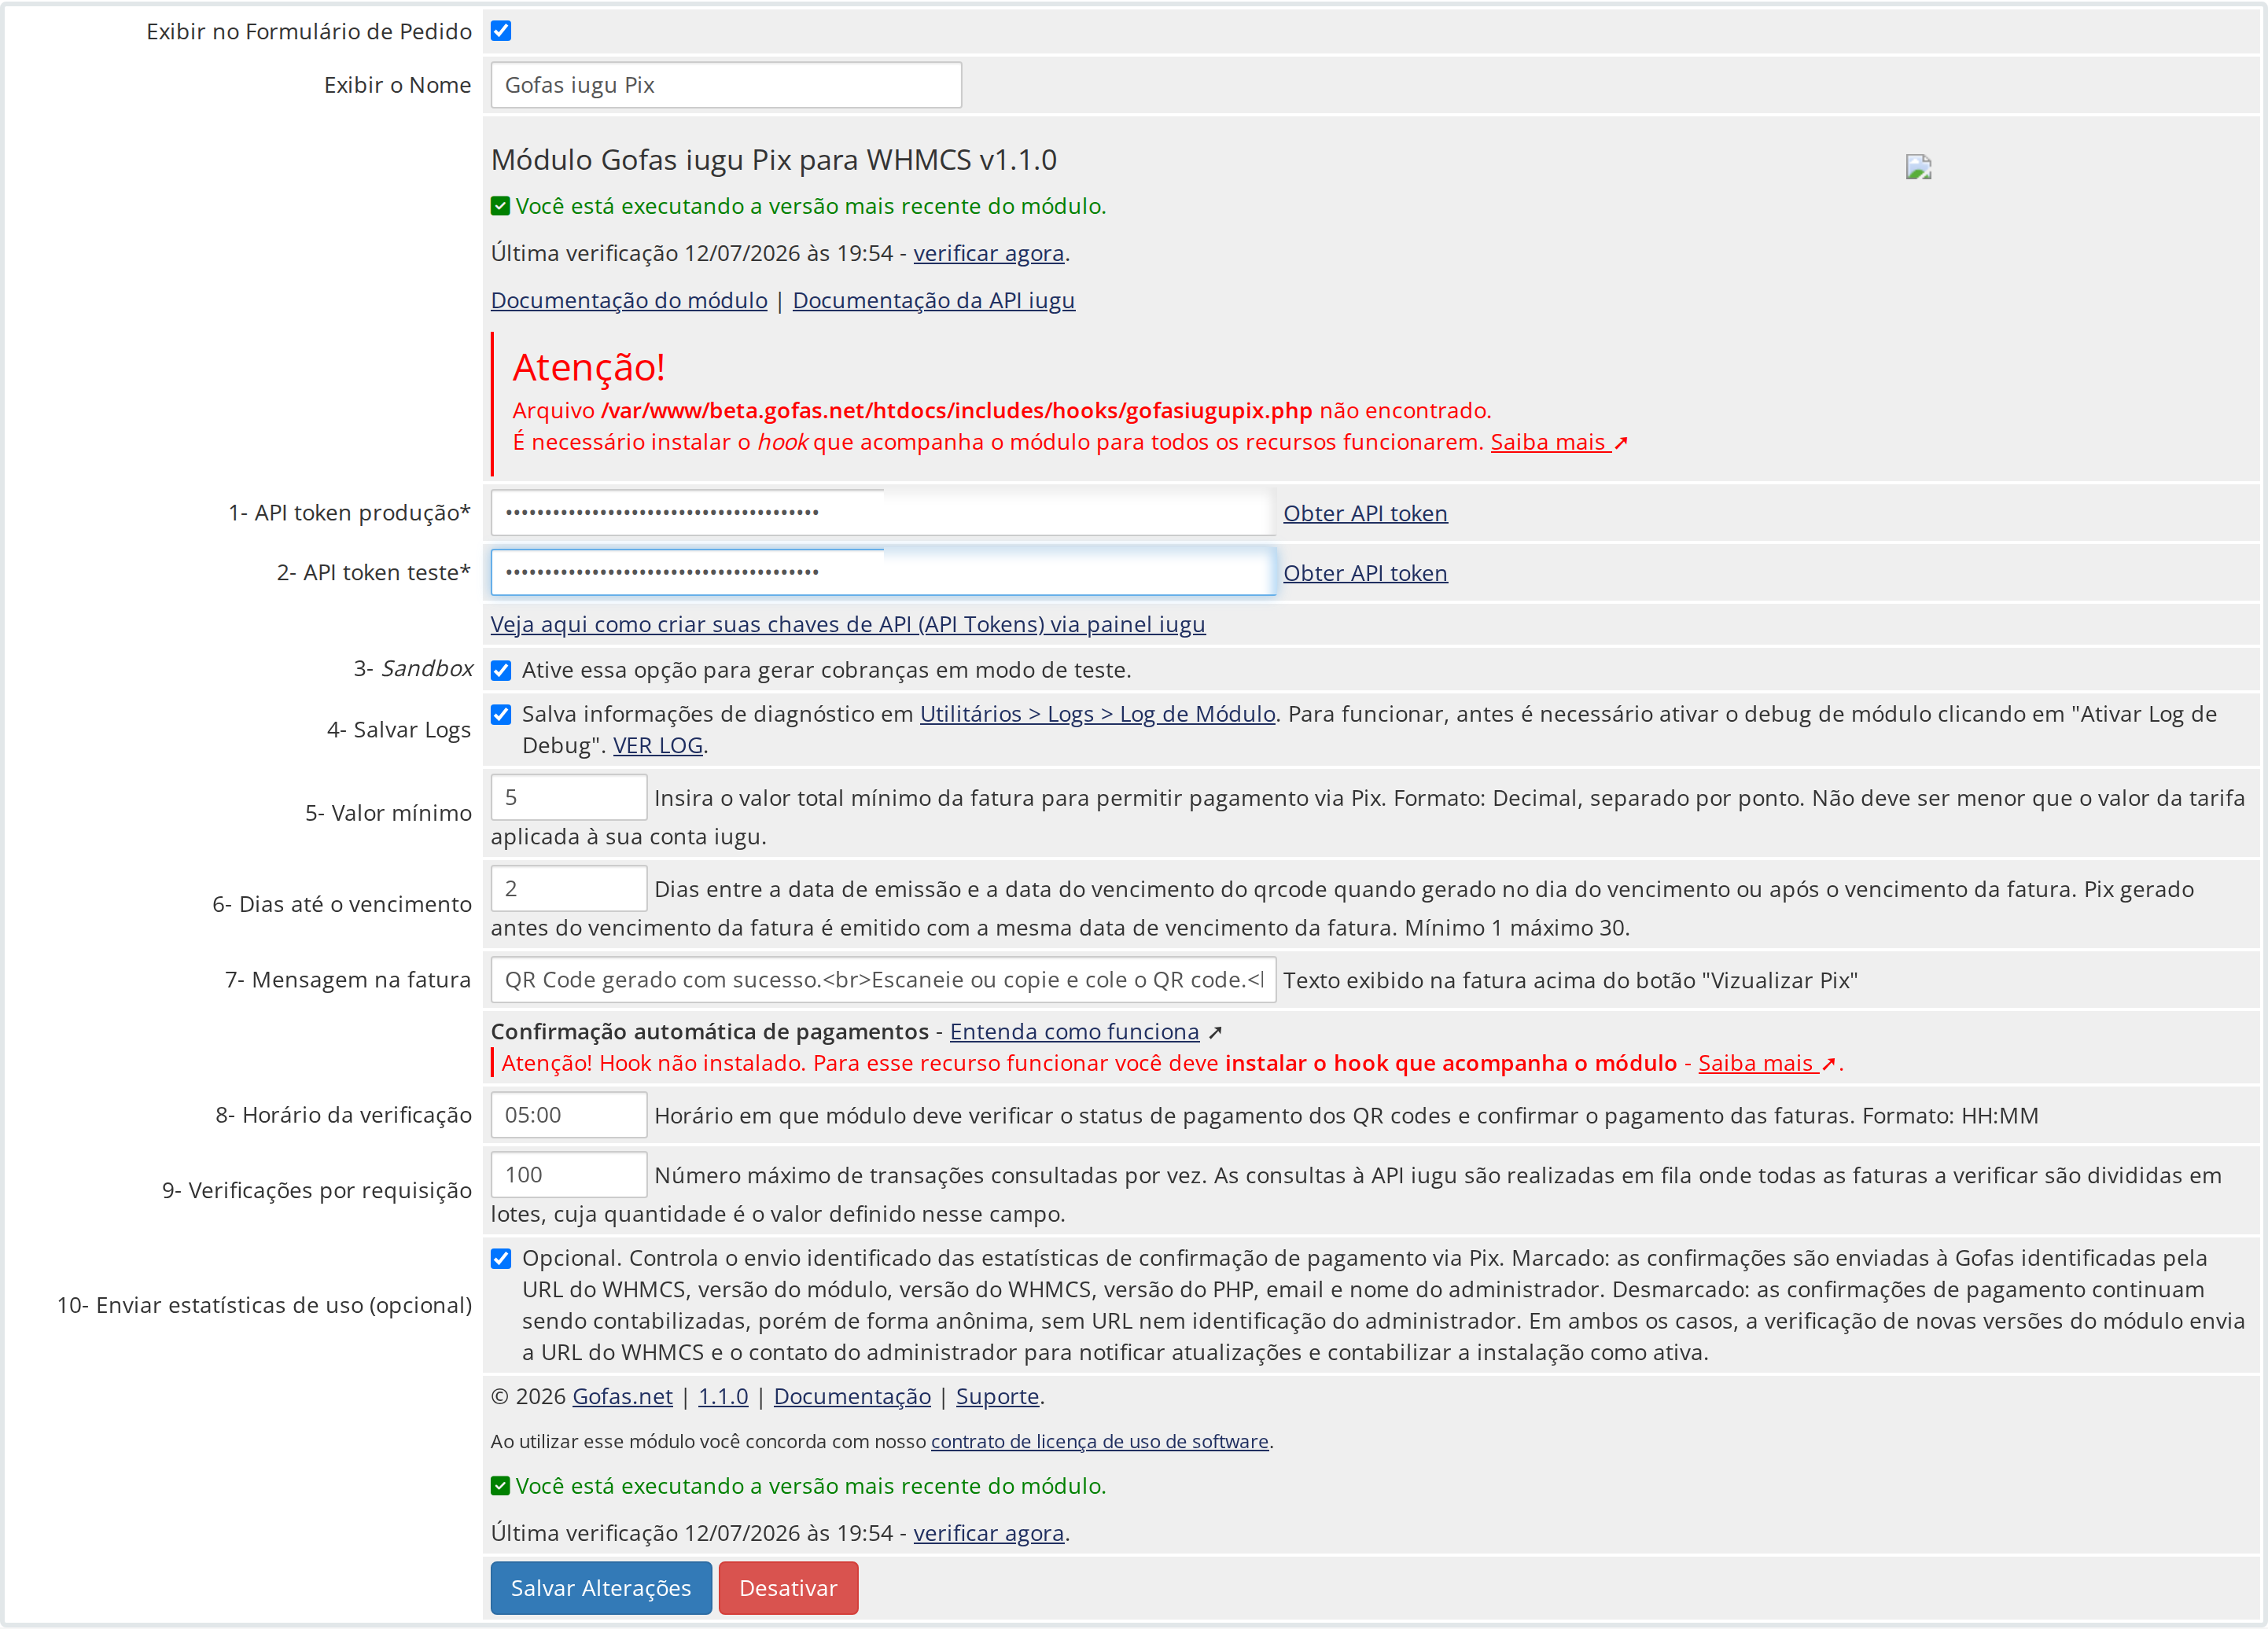
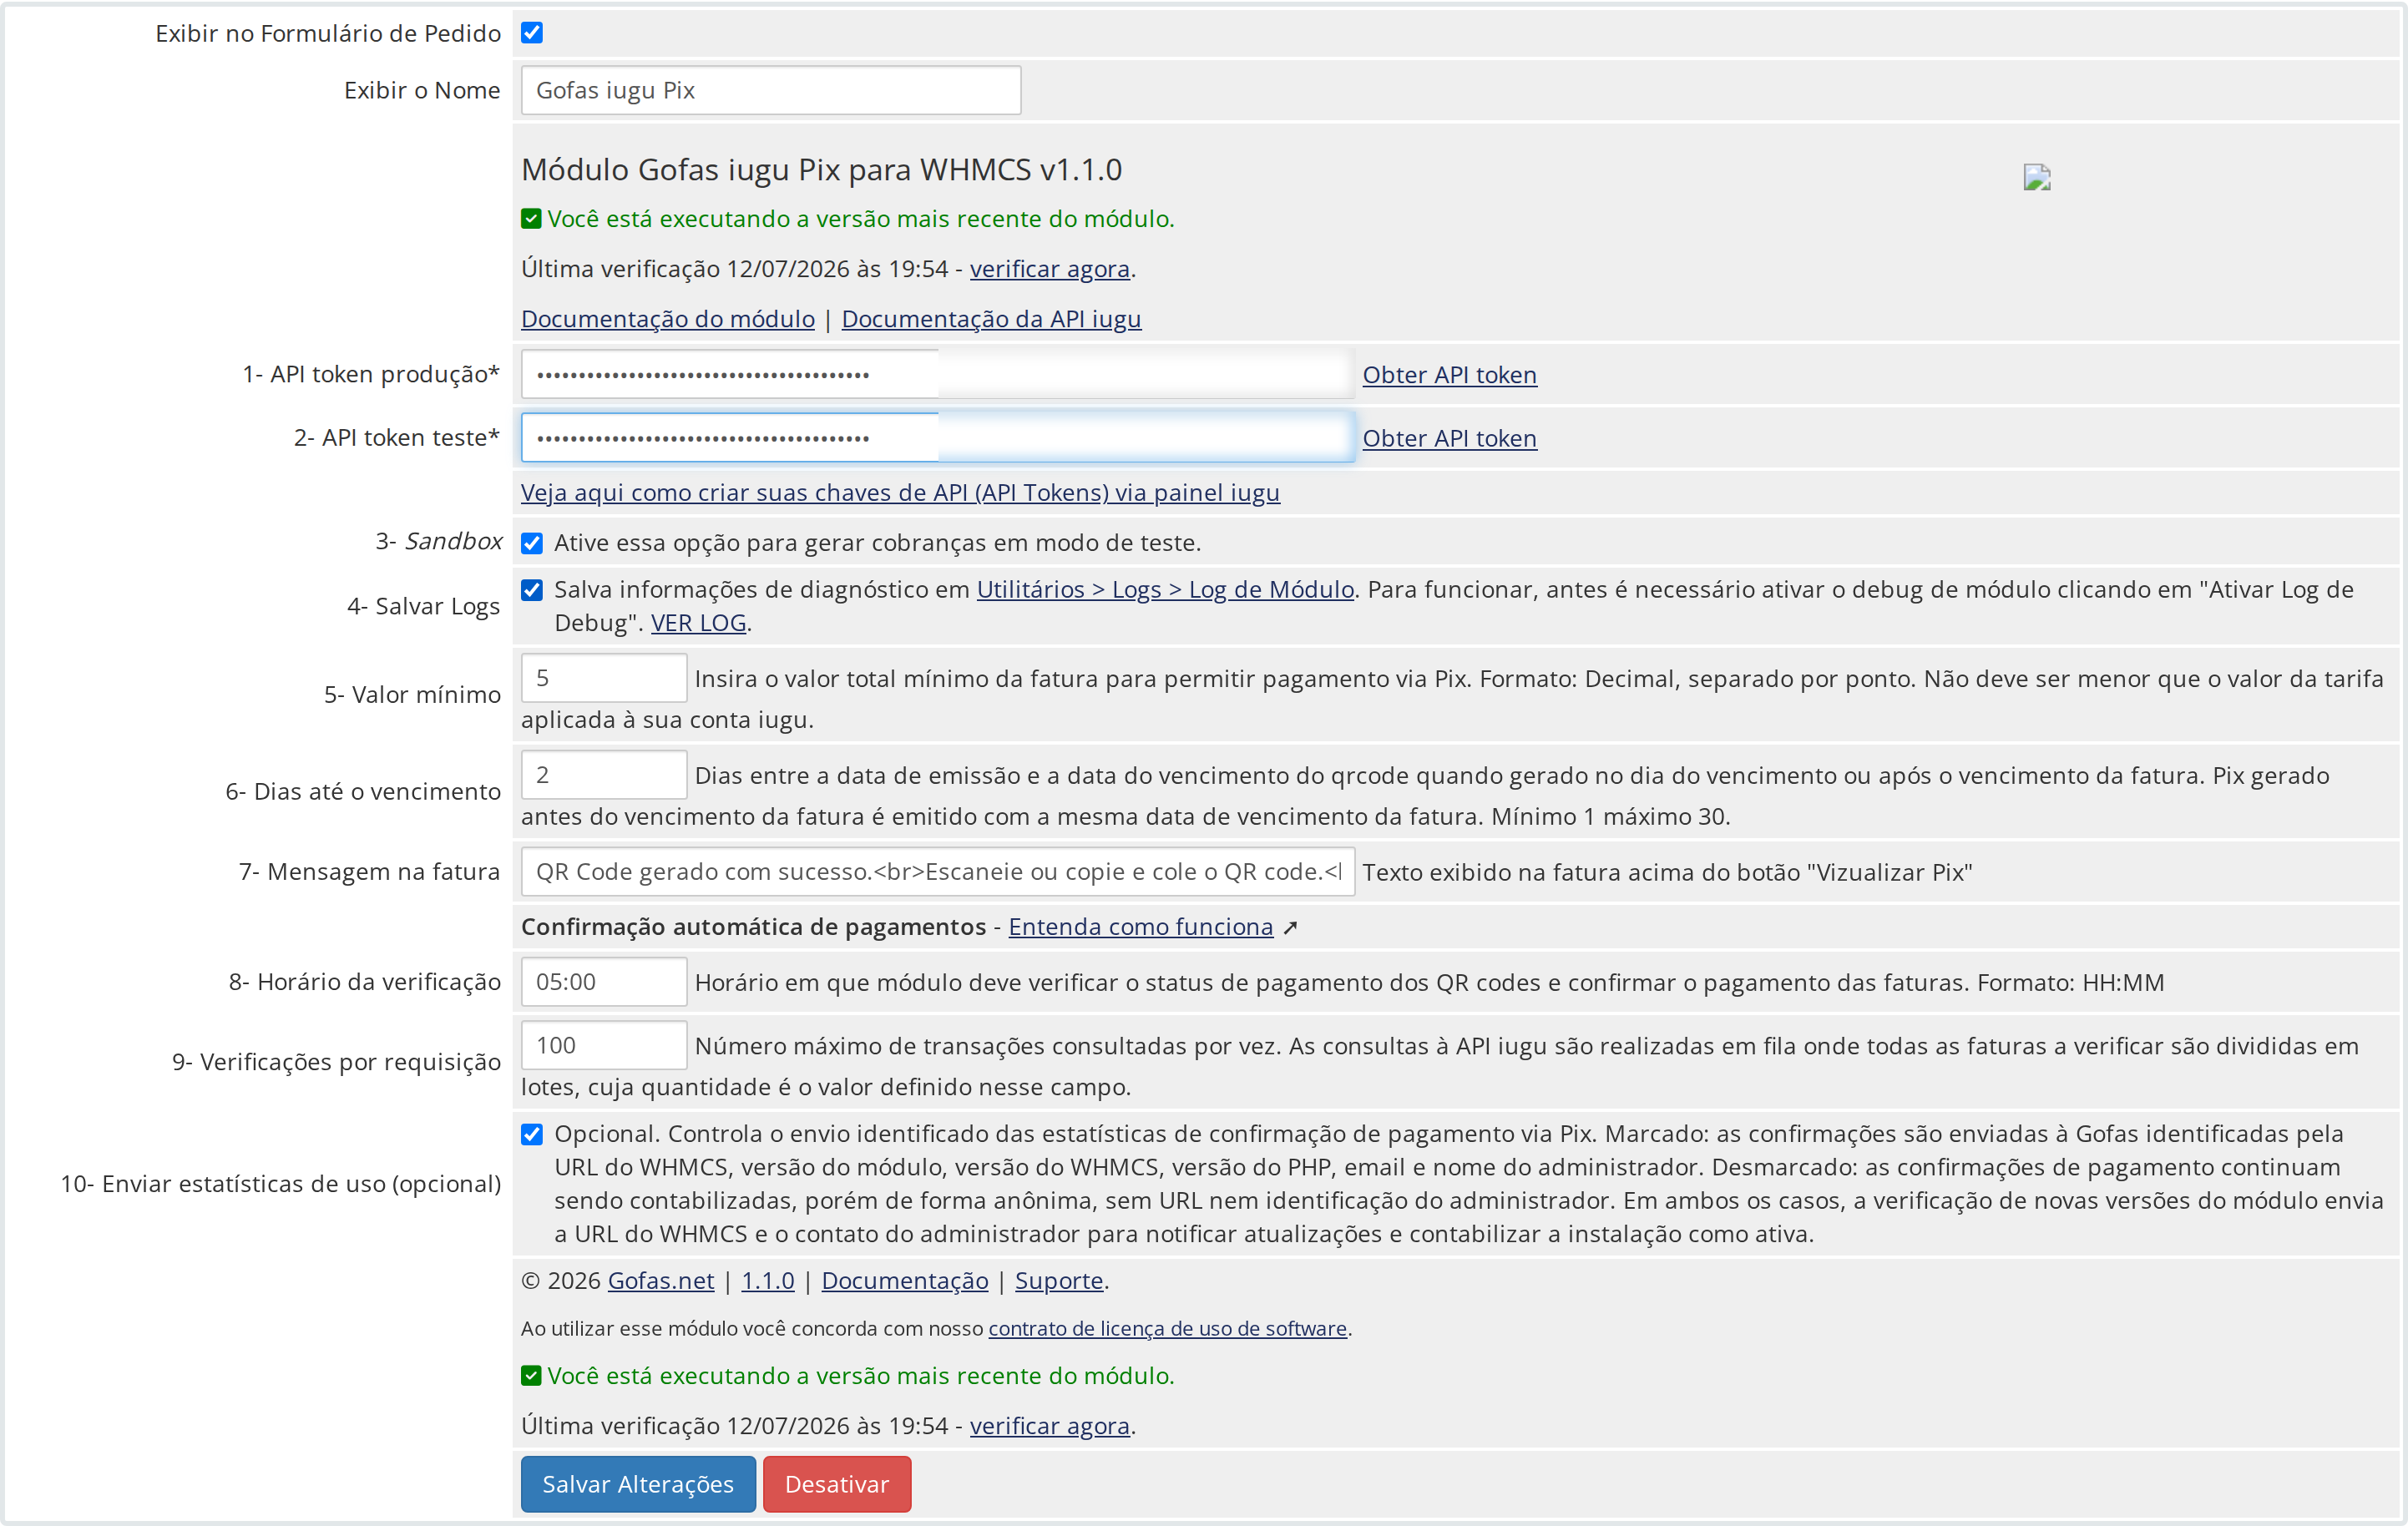
docs: badge de downloads do site, captura sem aviso de hook e licenca objetiva

diff --git a/readme.md b/readme.md
@@ -1,8 +1,7 @@
 # Módulo iugu Pix para WHMCS
 
 [![versão](https://img.shields.io/github/v/release/gofas/gofasiugupix?label=vers%C3%A3o&color=005071&style=flat-square)](https://github.com/gofas/gofasiugupix/releases/latest)
-[![downloads](https://img.shields.io/github/downloads/gofas/gofasiugupix/total?label=downloads&color=005071&style=flat-square)](https://github.com/gofas/gofasiugupix/releases/latest)
-[![licença](https://img.shields.io/badge/licen%C3%A7a-propriet%C3%A1ria-005071?style=flat-square)](https://gofas.net/contrato-de-venda-de-licenca-de-uso-de-software/)
+[![downloads](https://img.shields.io/endpoint?url=https%3A%2F%2Fgofas.net%2Fwp-json%2Fgofas%2Fv1%2Fbadge%2Fgofasiugupix&style=flat-square)](https://github.com/gofas/gofasiugupix/releases/latest)
 [![suporte](https://img.shields.io/badge/suporte-f%C3%B3rum%20gratuito-ff8700?style=flat-square)](https://gofas.net/foruns/)
 
 Gera cobranças Pix via API da iugu, com código QR exibido diretamente na fatura do WHMCS e baixa automática ao confirmar o pagamento. Desenvolvido pela Gofas Software, é 100% gratuito e de código aberto.
@@ -21,8 +20,6 @@ Gera cobranças Pix via API da iugu, com código QR exibido diretamente na fatur
 ## Download
 
 **[Baixar a versão mais recente](https://github.com/gofas/gofasiugupix/releases/latest/download/gofasiugupix.zip)**
-
-O download é contabilizado no site pelo contador de instalações do módulo.
 
 ## Funcionalidades
 
@@ -77,4 +74,10 @@ Fórum de suporte gratuito: https://gofas.net/foruns/
 
 ## Licença
 
-Software proprietário da Gofas Software. O código é público apenas para transparência e consulta; isso não concede licença de uso, modificação ou redistribuição. É vedado modificar, redistribuir, sublicenciar ou realizar engenharia reversa sem autorização prévia por escrito. Veja [LICENSE](LICENSE) e o contrato completo em https://gofas.net/contrato-de-venda-de-licenca-de-uso-de-software/.
+O código deste módulo é público para transparência e auditoria. Isso não transfere a titularidade nem concede licença livre de uso: o software é de propriedade da Gofas Software, protegido pela Lei 9.609/98 e pelos tratados de direitos autorais.
+
+Trechos do [contrato de licença de uso](https://gofas.net/contrato-de-venda-de-licenca-de-uso-de-software/) que se aplicam diretamente a este repositório:
+
+- **Não redistribuir**: é proibido o aluguel, o arrendamento, o empréstimo, a cessão e o licenciamento do software a terceiros, total ou parcial, assim como o fornecimento de serviços de hospedagem comercial do software (Cláusula 10ª, §3º).
+- **Não modificar**: é vedado qualquer procedimento que implique engenharia reversa, descompilação, desmontagem, tradução, adaptação ou modificação do software, bem como qualquer alteração não autorizada de suas funcionalidades (Cláusula 10ª, §2º).
+- **Módulo alterado perde o suporte**: a Gofas não se responsabiliza por defeitos decorrentes de alteração do software, de operação por pessoas não autorizadas ou da integração com softwares de terceiros (Cláusula 10ª, §7º). O suporte é uma cortesia e não é garantido pela licença (Cláusula 7ª, §1º).